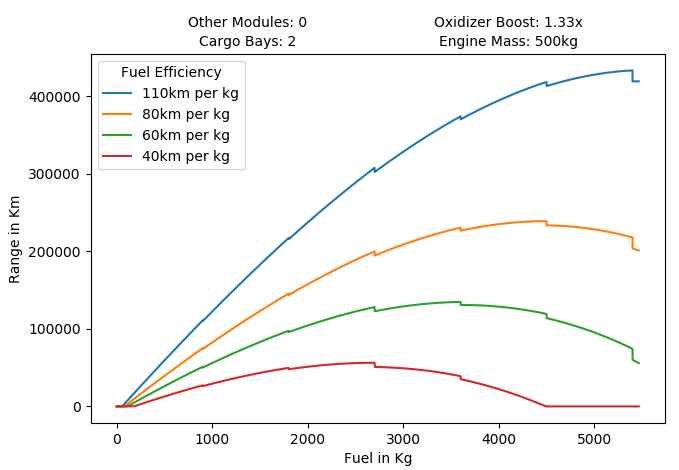
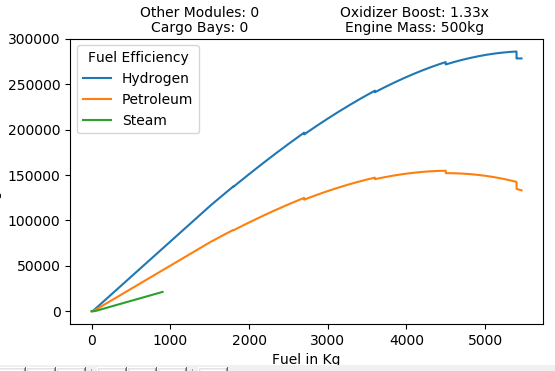
Add Overhaul Readme, Improve Images

diff --git a/dev_utils/rocket_distance.py b/dev_utils/rocket_distance.py
@@ -8,11 +8,12 @@ import pylab
 from collections import deque
 
 # what is on your rocket?
-cargo_bays = 2
+cargo_bays = 0
 other_modules = 0
 
 # must be in descending efficiency! km of range per kg of fuel burned
 fuel_efficiencies = [60, 40, 20]
+fuel_names = ['Hydrogen', 'Petroleum', 'Steam']
 
 # oxylite is 1.0, lox is 1.33
 oxidizer_efficiency = 1.33
@@ -100,12 +101,16 @@ def main():
 	max_distance = 0
 	distance_delta_queue: deque = deque()
 
-	for efficiency in fuel_efficiencies:
+	for i in range(len(fuel_efficiencies)):
+		efficiency = fuel_efficiencies[i]
 		is_most_efficient_fuel: bool = efficiency == fuel_efficiencies[0]
 		x_axis: [int] = []
 		y_axis: [int] = []
 		for fuel_amount in range(max_fuel_amount):
 			new_range = calc_total_distance(fuel_amount, efficiency)
+
+			if fuel_amount > 900 and efficiency == 20:
+				break
 
 			distance_delta_queue.append(new_range)
 			if len(distance_delta_queue) >= 4:
@@ -122,7 +127,7 @@ def main():
 		if len(x_axis) == 0:
 			print('Your rocket was so bad that it cant even get 1 km of range! Try improving fuel efficiency or reducing weight.')
 
-		plt.plot(x_axis, y_axis, label=str(efficiency) + 'km per kg')
+		plt.plot(x_axis, y_axis, label=fuel_names[i])
 
 	plt.xlabel('Fuel in Kg')
 	plt.ylabel('Range in Km')

diff --git a/dev_utils/rocket_distance_overhaul.py b/dev_utils/rocket_distance_overhaul.py
@@ -27,6 +27,7 @@ stop_graph_at_peak_range: bool = True
 #
 # Vertex: (4.5,8)
 # y = -3.33333 x^2 + 30.0 x - 59.5
+# petroleum has been tweaked slightly
 
 # multiplied by whole equation
 parabolic_extraction = 3.333
@@ -61,6 +62,11 @@ exponent = 2.0
 fuel_per_x_value = 900.0  # fuel per int
 efficiency_scalar = oni_hydrolox / real_hydrolox
 range_scalar = parabolic_extraction * miles_per_y_value
+
+# oxidizer options
+oxy_mixed = 1.2
+oxy_lox = 1.0
+oxy_solid = 0.8
 
 
 class Rocket:
@@ -106,7 +112,7 @@ class Rocket:
 
 
 def make_rocket() -> Rocket:
-	return Rocket(60, 1.2, engine_penalty=0, boosters=0, cargo_bays=0, science_bays=0, vision_bays=0)
+	return Rocket(0, oxidizer_efficiency=oxy_mixed, engine_penalty=0, boosters=0, cargo_bays=0, science_bays=0, vision_bays=0)
 
 
 # your furthest rocket should go first!

diff --git a/src/RocketOverhaul/RocketOverhaul.md b/src/RocketOverhaul/RocketOverhaul.md
@@ -1,0 +1,19 @@
+
+# Rocket Overhaul
+
+## About
+The normal ONI rocket equation means that the rocket with the best fuel is always the rocket you should use, and that [Oxylite](https://oxygennotincluded.gamepedia.com/Oxylite) is useless after you can manufacture [Liquid Oxygen](https://oxygennotincluded.gamepedia.com/Liquid_Oxygen). This mod:
+* Adds a new Methane Engine which is even more powerful than the [Hydrogen Engine](https://oxygennotincluded.gamepedia.com/Hydrogen_Engine).
+* Gives a reason to use different engines under different circumstances.
+* Mixing [Oxylite](https://oxygennotincluded.gamepedia.com/Oxylite) _and_ [Liquid Oxygen](https://oxygennotincluded.gamepedia.com/Liquid_Oxygen) equally gives the largest boost to efficiency, providing a reason to make both.
+* Makes it possible for the best rockets to return more mass via [Cargo Bays](https://oxygennotincluded.gamepedia.com/Cargo_Bay) then it costs to launch it.
+* Makes Boosters useful instead of [useless](https://forums.kleientertainment.com/forums/topic/97074-solid-booster-useless-solved/).
+
+
+RocketOverhaul.dll
+
+## Old Equation
+![rocket efficiency graph](../dev_utils/rocket_distance.png "The red line is the rocket with your mom on it.")
+
+## New Equation
+![new rocket efficiency graph](../dev_utils/new_equation.png "Just kidding about the rocket with your mom on it. The rocket was never built due to budget concerns.")

diff --git a/dev_utils/readme.md b/dev_utils/readme.md
@@ -1,4 +1,4 @@
-### Rocket Distance
+### Rocket Distance: rocket_distance.py
 * Graphs a rocket's distance with any specified fuel efficiency. You can easily modify anything at the top of the file. 
 * If you want to know whether your new rocket engine mod would be OP, look no further.
 * Useful for playing with rocket mechanics: Fuel Efficiency, Weight, etc.
@@ -8,3 +8,9 @@
 
 ![rocket efficiency graph](rocket_distance.png "The red line is the rocket with your mom on it.")
 
+### Rocket Overhaul Mod Distance: rocket_distance_overhaul.py
+* [Get the mod here]().
+* Notice the _best_ engine isn't always best?
+* Boosters are always useful!
+
+![new rocket efficiency graph](new_equation.png "Just kidding about the rocket with your mom on it. The rocket was never built due to budget concerns.")
